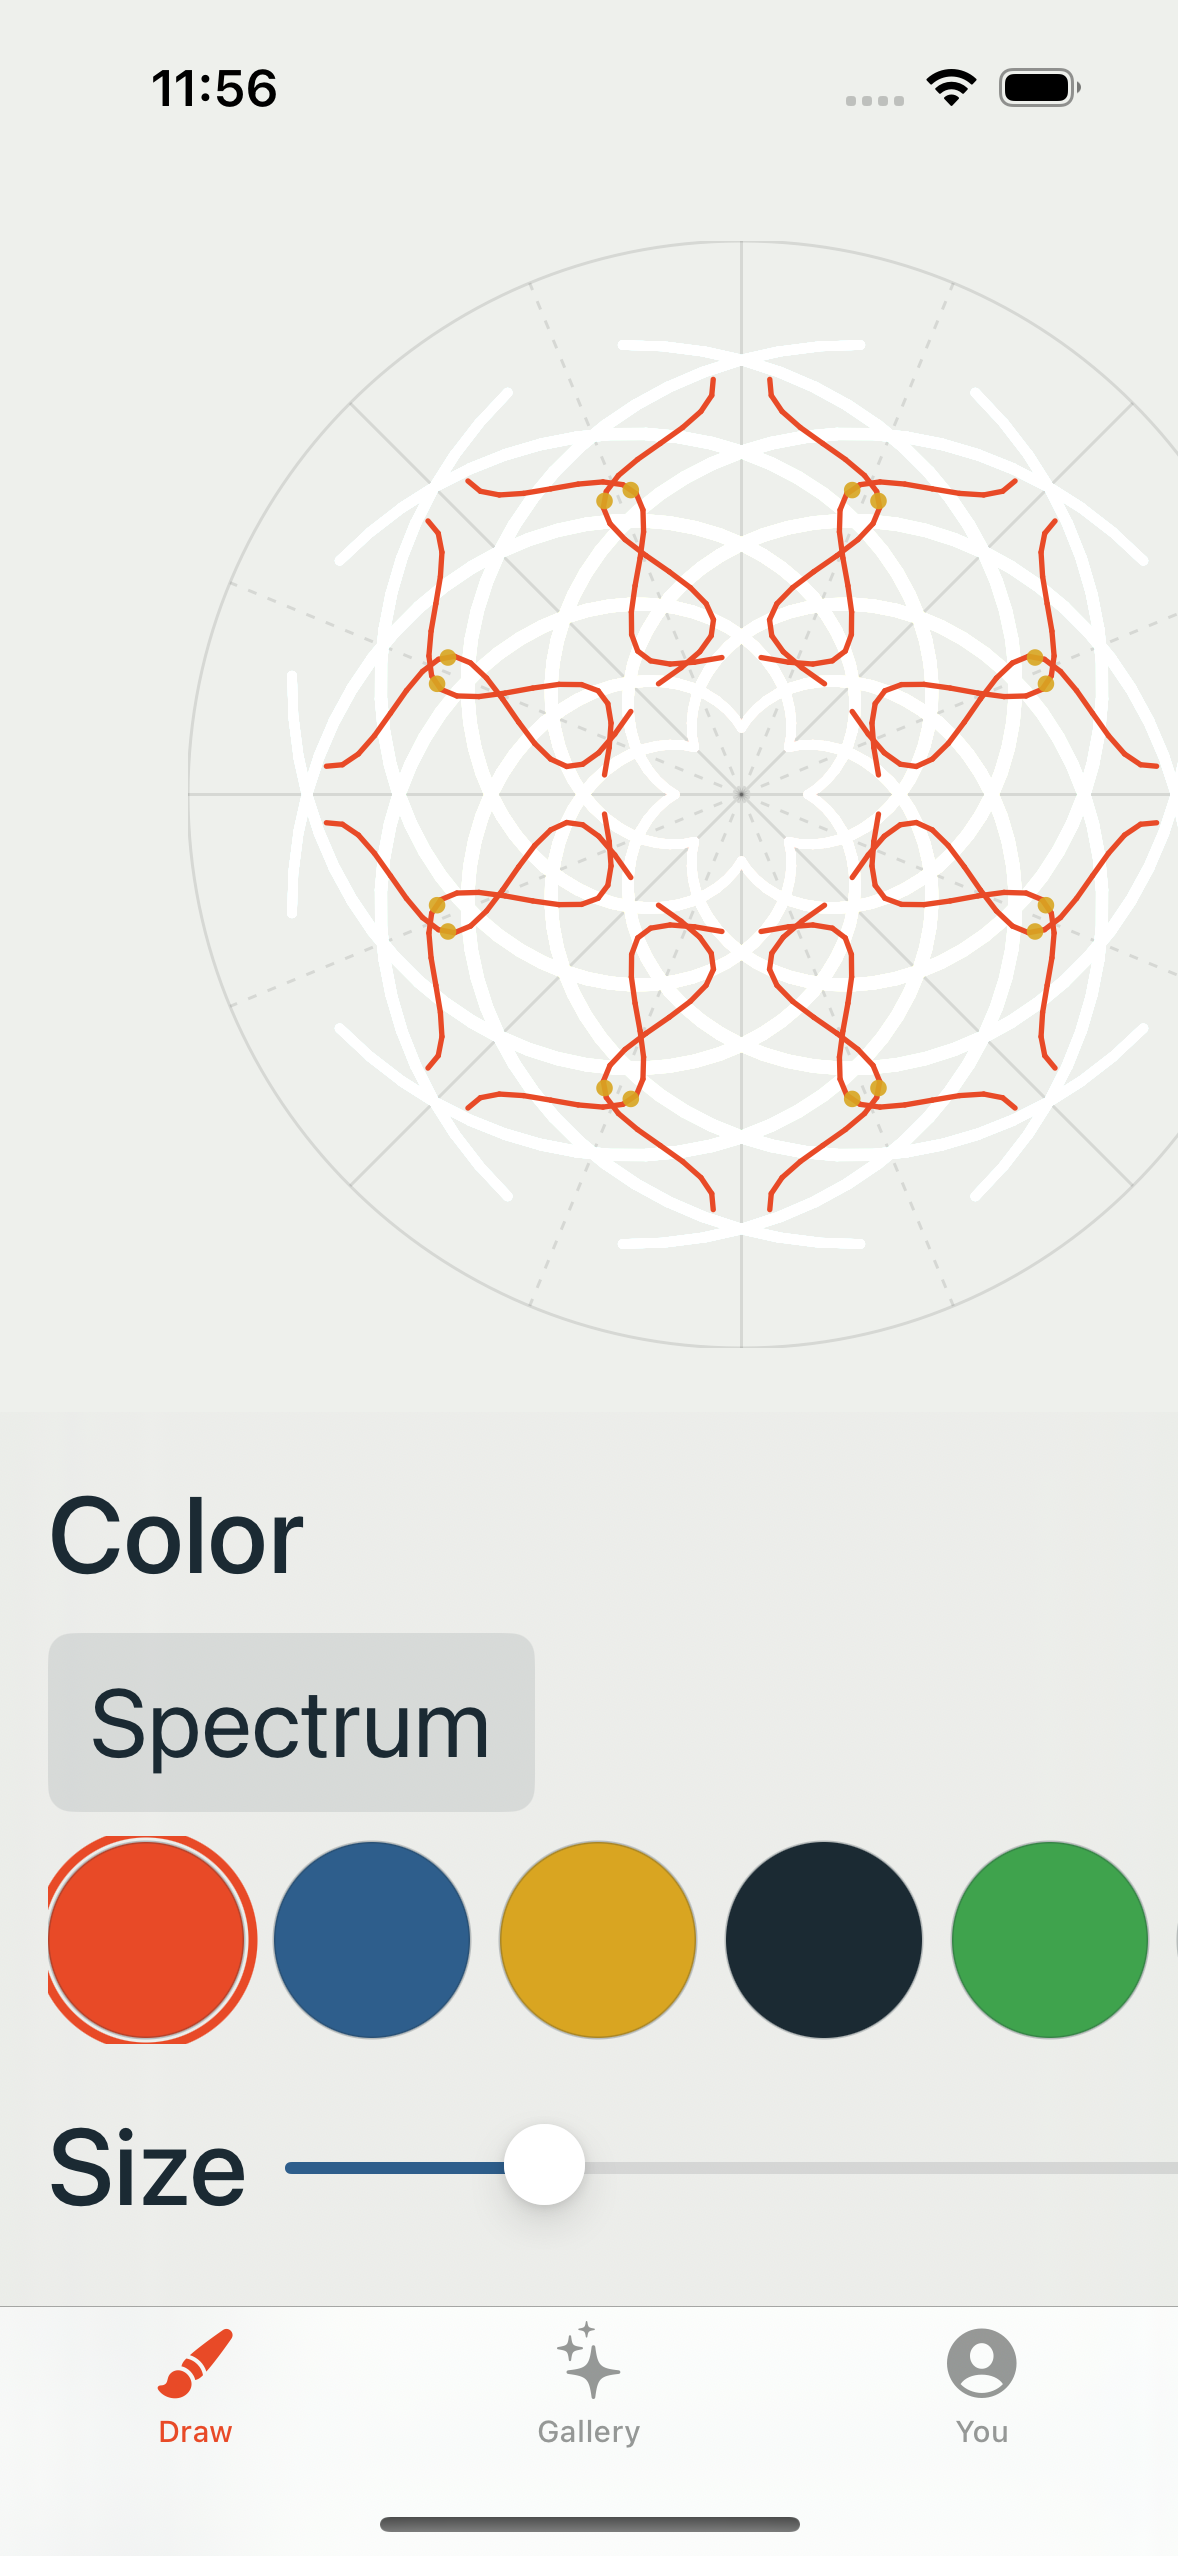
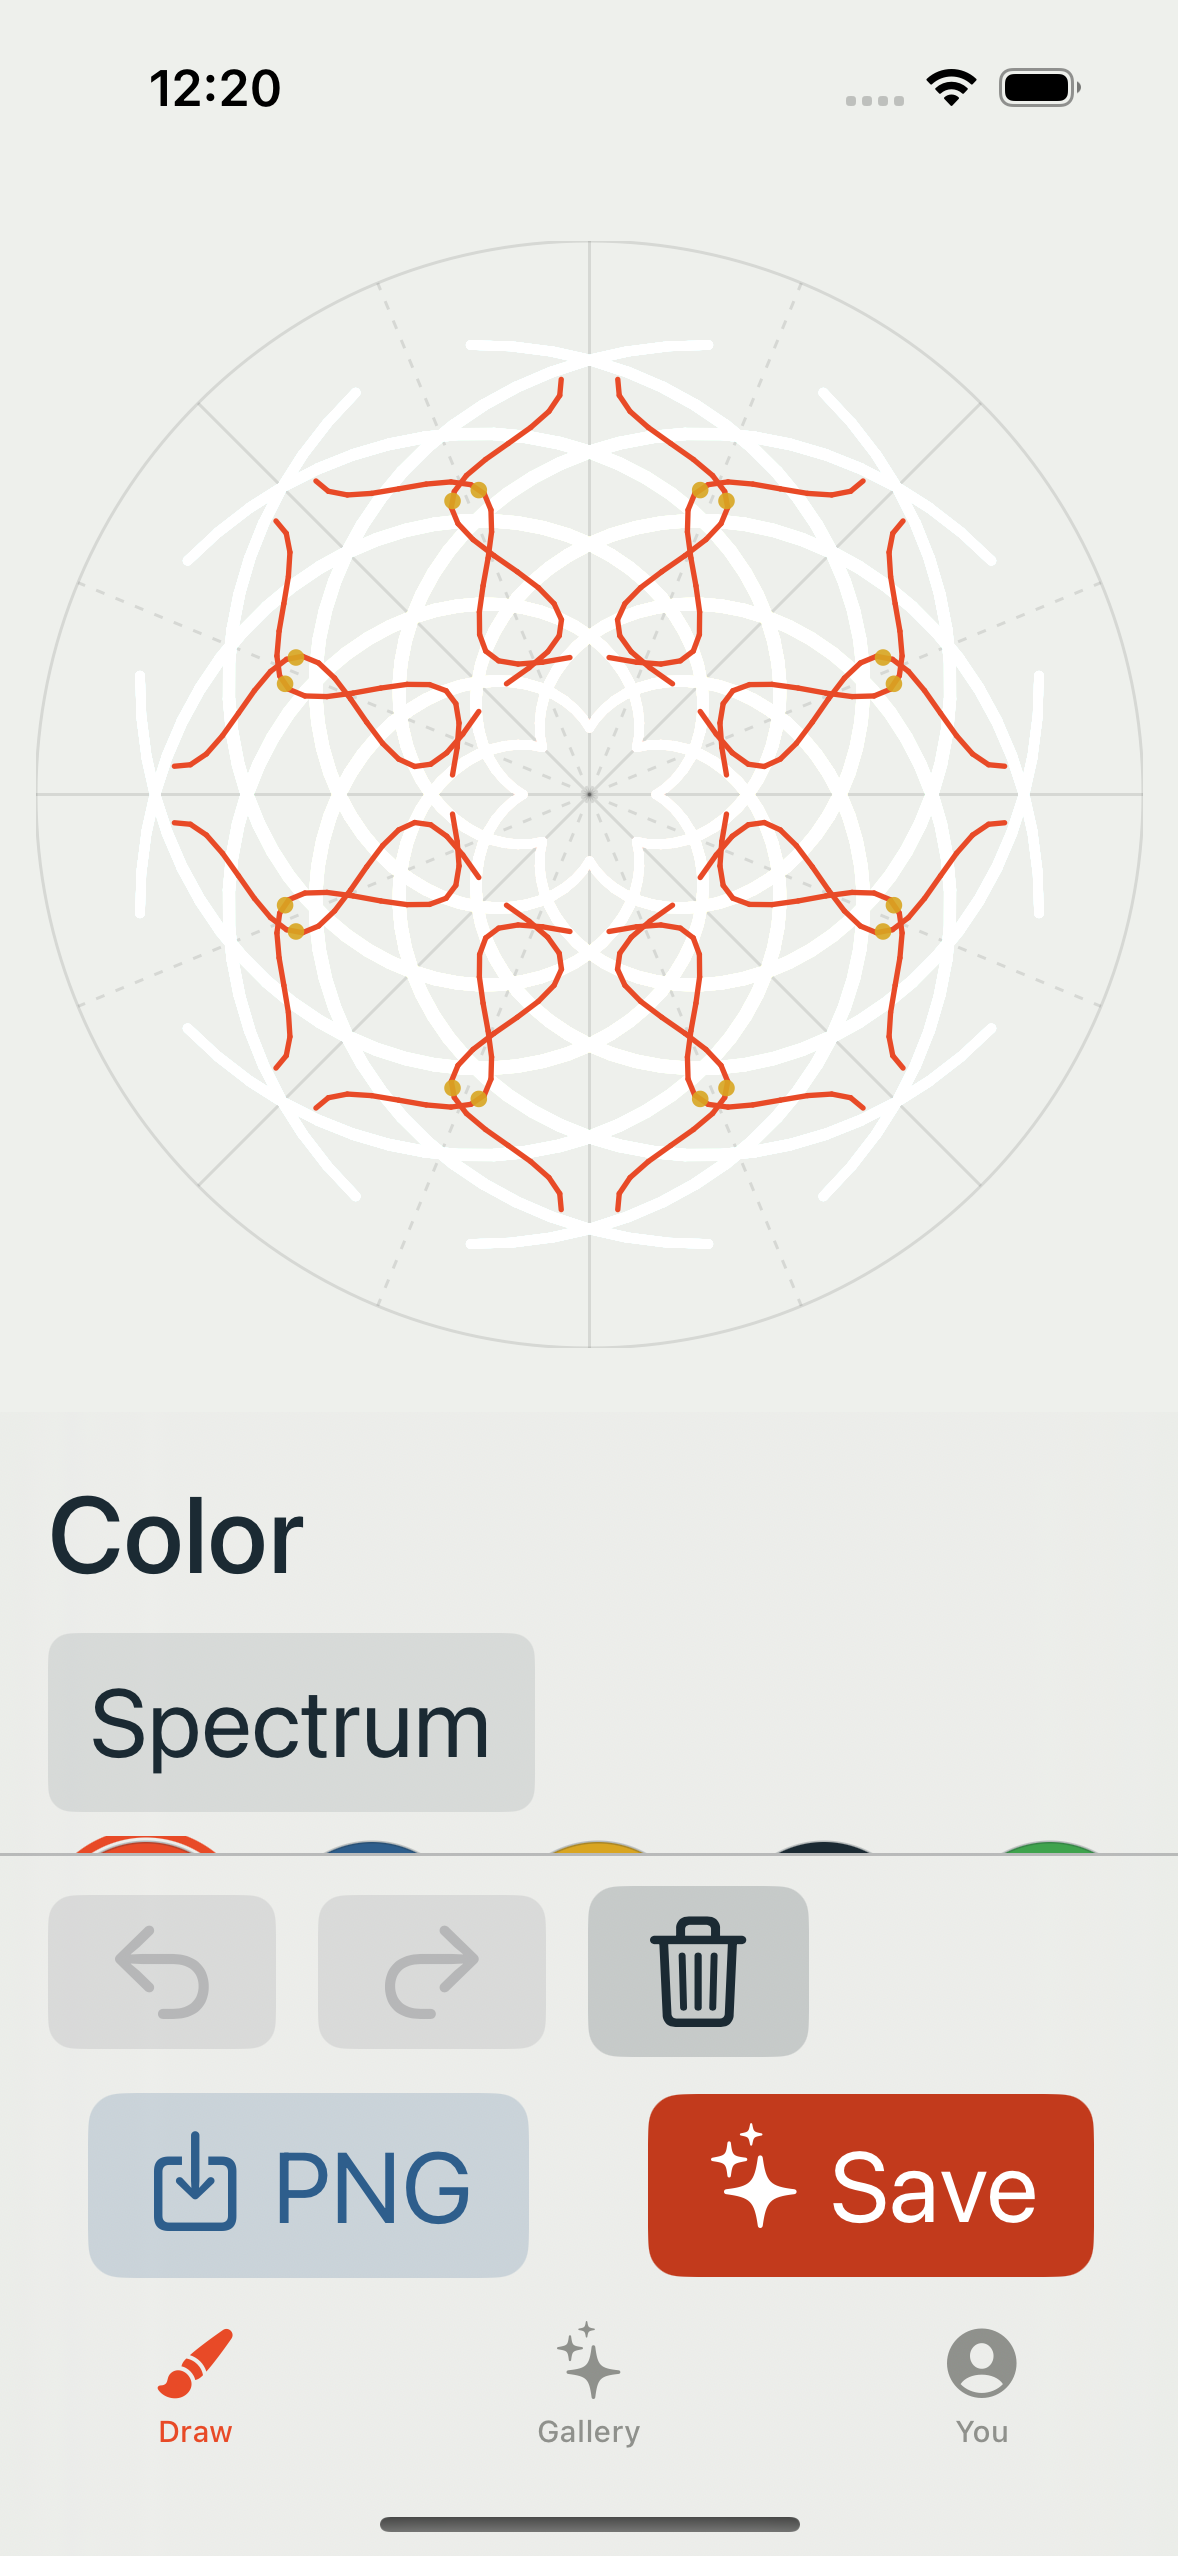
Reflow artwork/Studio action rows at accessibility text sizes
At accessibility Dynamic Type sizes only (default layout unchanged, verified
byte-identical): the artwork Like/Remix/Share row stacks vertically so the like
count stays visible, and the Studio action row becomes a pinned two-row bar below
the controls scroll (Undo/Redo/Clear; Download/Save) so the primary actions are
reachable without scrolling and the canvas isn't shrunk. Screenshots re-captured.

Claude-Session: https://claude.ai/code/session_01U1R21Uoqm5tLFpFWGHgBra

diff --git a/ios/App/Studio/StudioView.swift b/ios/App/Studio/StudioView.swift
@@ -47,23 +47,46 @@ struct StudioView: View {
 
     // MARK: Controls
 
+    @ViewBuilder
     private var controls: some View {
-        ScrollView {
-            VStack(spacing: 16) {
-                colorRow
-                sliderRow(title: "Size", accessibilityLabel: "Brush size",
-                          value: $model.size, range: 2...60) { "\(Int($0.rounded())) points" }
-                sliderRow(title: "Opacity", accessibilityLabel: "Opacity",
-                          value: $model.opacity, range: 0.1...1) { "\(Int(($0 * 100).rounded())) percent" }
-                segmentsRow
-                togglesRow
-                actionRow
+        if dynamicTypeSize.isAccessibilitySize {
+            // Accessibility sizes: the panel is height-capped, so the action row
+            // would fall below the scroll fold. Pin it as an always-visible bar
+            // below the scroll so Undo/Redo/Clear/Download/Save stay reachable
+            // without scrolling; the canvas keeps the same height.
+            VStack(spacing: 0) {
+                ScrollView {
+                    VStack(spacing: 16) { adjustmentRows }
+                        .padding(16)
+                }
+                Divider()
+                pinnedActionBar
+                    .padding(.horizontal, 16)
+                    .padding(.vertical, 10)
             }
-            .padding(16)
+            .background(controlsBackground)
+        } else {
+            ScrollView {
+                VStack(spacing: 16) {
+                    adjustmentRows
+                    actionRow
+                }
+                .padding(16)
+            }
+            .background(controlsBackground)
         }
-        // Reduce Transparency: swap the blur for a solid graph-card surface so
-        // the controls stay legible without translucency.
-        .background(controlsBackground)
+    }
+
+    /// The scrollable adjustment controls (everything except the action row).
+    @ViewBuilder
+    private var adjustmentRows: some View {
+        colorRow
+        sliderRow(title: "Size", accessibilityLabel: "Brush size",
+                  value: $model.size, range: 2...60) { "\(Int($0.rounded())) points" }
+        sliderRow(title: "Opacity", accessibilityLabel: "Opacity",
+                  value: $model.opacity, range: 0.1...1) { "\(Int(($0 * 100).rounded())) percent" }
+        segmentsRow
+        togglesRow
     }
 
     @ViewBuilder
@@ -227,34 +250,63 @@ struct StudioView: View {
         .font(.caption)
     }
 
+    // Default (one row): undo/redo/clear, spacer, download, save.
     private var actionRow: some View {
         HStack(spacing: 14) {
-            iconButton("arrow.uturn.backward", label: "Undo", enabled: model.canUndo) { model.undo() }
-            iconButton("arrow.uturn.forward", label: "Redo", enabled: model.canRedo) { model.redo() }
-            iconButton("trash", label: "Clear canvas", enabled: !model.isEmpty) { model.clear() }
+            editButtons
             Spacer()
-            Button {
-                download()
-            } label: {
-                Label("PNG", systemImage: "square.and.arrow.down")
-            }
-            .buttonStyle(.bordered)
-            .tint(Blueprint.crease)
-            .disabled(model.isEmpty)
-            .accessibilityLabel("Download PNG")
-            .accessibilityHint("Exports the drawing as an image to share or save")
-
-            Button {
-                onSave()
-            } label: {
-                Label("Save", systemImage: "sparkles")
-                    .foregroundStyle(.white) // pin white so the label isn't system-picked
-            }
-            .buttonStyle(.borderedProminent)
-            .tint(Blueprint.craneButton)
-            .disabled(model.isEmpty)
-            .accessibilityHint("Saves the piece to the gallery")
+            downloadButton
+            saveButton
         }
+    }
+
+    /// Accessibility sizes: two rows so all five controls fit (a single row
+    /// overflows and pushes Save off-screen). Undo/redo/clear on top, then
+    /// Download + Save full-width. Used pinned below the scroll in `controls`.
+    private var pinnedActionBar: some View {
+        VStack(spacing: 12) {
+            HStack(spacing: 14) { editButtons; Spacer() }
+            HStack(spacing: 14) {
+                downloadButton.frame(maxWidth: .infinity)
+                saveButton.frame(maxWidth: .infinity)
+            }
+            // Keep the two full-width labels on one line, scaling if needed.
+            .lineLimit(1)
+            .minimumScaleFactor(0.7)
+        }
+    }
+
+    @ViewBuilder
+    private var editButtons: some View {
+        iconButton("arrow.uturn.backward", label: "Undo", enabled: model.canUndo) { model.undo() }
+        iconButton("arrow.uturn.forward", label: "Redo", enabled: model.canRedo) { model.redo() }
+        iconButton("trash", label: "Clear canvas", enabled: !model.isEmpty) { model.clear() }
+    }
+
+    private var downloadButton: some View {
+        Button {
+            download()
+        } label: {
+            Label("PNG", systemImage: "square.and.arrow.down")
+        }
+        .buttonStyle(.bordered)
+        .tint(Blueprint.crease)
+        .disabled(model.isEmpty)
+        .accessibilityLabel("Download PNG")
+        .accessibilityHint("Exports the drawing as an image to share or save")
+    }
+
+    private var saveButton: some View {
+        Button {
+            onSave()
+        } label: {
+            Label("Save", systemImage: "sparkles")
+                .foregroundStyle(.white) // pin white so the label isn't system-picked
+        }
+        .buttonStyle(.borderedProminent)
+        .tint(Blueprint.craneButton)
+        .disabled(model.isEmpty)
+        .accessibilityHint("Saves the piece to the gallery")
     }
 
     private func iconButton(_ system: String, label: String, enabled: Bool, action: @escaping () -> Void) -> some View {

diff --git a/ios/App/Content/ArtworkView.swift b/ios/App/Content/ArtworkView.swift
@@ -9,6 +9,7 @@ struct ArtworkView: View {
     @EnvironmentObject var studio: StudioModel
     @EnvironmentObject var router: AppRouter
     @Environment(\.dismiss) private var dismiss
+    @Environment(\.dynamicTypeSize) private var dynamicTypeSize
 
     @State private var detail: ArtworkDetail?
     @State private var likes = 0
@@ -61,39 +62,60 @@ struct ArtworkView: View {
         .padding()
     }
 
+    @ViewBuilder
     private func actionRow(_ d: ArtworkDetail) -> some View {
-        HStack(spacing: 12) {
-            Button { Task { await like() } } label: {
-                Label("\(likes)", systemImage: "heart")
+        if dynamicTypeSize.isAccessibilitySize {
+            // Accessibility sizes: stack full-width so the like count, Remix, and
+            // Share all stay fully visible (the horizontal row squeezes them).
+            VStack(spacing: 12) {
+                likeButton.frame(maxWidth: .infinity)
+                remixButton.frame(maxWidth: .infinity)
+                shareButton(d).frame(maxWidth: .infinity)
             }
-            .buttonStyle(.bordered)
-            .tint(Blueprint.craneText) // crane-as-text token: 4.5:1+ label in both themes
-            .disabled(busy)
-            .accessibilityLabel("Like")
-            .accessibilityValue(likes == 1 ? "1 like" : "\(likes) likes")
-
-            Button { Task { await remix() } } label: {
-                Label("Remix", systemImage: "arrow.triangle.branch")
-                    .foregroundStyle(.white) // pin white so the label isn't system-picked
-                    .lineLimit(1)
-                    .minimumScaleFactor(0.6) // scale down at large text instead of wrapping mid-word
+        } else {
+            HStack(spacing: 12) {
+                likeButton
+                remixButton
+                shareButton(d)
+                Spacer()
             }
-            .buttonStyle(.borderedProminent)
-            .tint(Blueprint.creaseButton)
-            // Claim label width before the row's Spacer absorbs it, so the label
-            // reads "Remix" (not "Re…") at large text instead of compressing.
-            .layoutPriority(1)
-            .disabled(busy)
-            .accessibilityHint("Loads this piece into the studio to edit")
-
-            Button { Task { await share(d) } } label: {
-                Image(systemName: "square.and.arrow.up")
-            }
-            .buttonStyle(.bordered)
-            .tint(Blueprint.graphite)
-            .accessibilityLabel("Share")
-            Spacer()
         }
+    }
+
+    private var likeButton: some View {
+        Button { Task { await like() } } label: {
+            Label("\(likes)", systemImage: "heart")
+        }
+        .buttonStyle(.bordered)
+        .tint(Blueprint.craneText) // crane-as-text token: 4.5:1+ label in both themes
+        .disabled(busy)
+        .accessibilityLabel("Like")
+        .accessibilityValue(likes == 1 ? "1 like" : "\(likes) likes")
+    }
+
+    private var remixButton: some View {
+        Button { Task { await remix() } } label: {
+            Label("Remix", systemImage: "arrow.triangle.branch")
+                .foregroundStyle(.white) // pin white so the label isn't system-picked
+                .lineLimit(1)
+                .minimumScaleFactor(0.6) // scale down at large text instead of wrapping mid-word
+        }
+        .buttonStyle(.borderedProminent)
+        .tint(Blueprint.creaseButton)
+        // Claim label width before the row's Spacer absorbs it, so the label
+        // reads "Remix" (not "Re…") at large text instead of compressing.
+        .layoutPriority(1)
+        .disabled(busy)
+        .accessibilityHint("Loads this piece into the studio to edit")
+    }
+
+    private func shareButton(_ d: ArtworkDetail) -> some View {
+        Button { Task { await share(d) } } label: {
+            Image(systemName: "square.and.arrow.up")
+        }
+        .buttonStyle(.bordered)
+        .tint(Blueprint.graphite)
+        .accessibilityLabel("Share")
     }
 
     @ViewBuilder

diff --git a/ios/UITests/AccessibilityUITests.swift b/ios/UITests/AccessibilityUITests.swift
@@ -144,6 +144,21 @@ final class AccessibilityUITests: XCTestCase {
     /// "frendalist" (shows "by Anmol Saxena" — the owner's own name, fine to
     /// display) rather than an arbitrary other-user piece. Same .accessibility3
     /// launch arg. Used to replace 04-artwork-detail with a privacy-safe shot.
+    /// Focused .accessibility3 capture of the Studio (default + a swatch selected)
+    /// — used to refresh 01/02 after the controls-panel reflow without disturbing
+    /// the network-backed screens.
+    func testAccessibility3StudioReflow() {
+        let app = XCUIApplication()
+        app.launchArguments += ["-UIPreferredContentSizeCategoryName",
+                                "UICTContentSizeCategoryAccessibilityXL"]
+        app.launchEnvironment["KALEIDO_DEMO"] = "1"
+        app.launch()
+        XCTAssertTrue(app.otherElements["Drawing canvas"].waitForExistence(timeout: 15))
+        snap(app, "01-studio-default")
+        if app.buttons["teal"].exists { app.buttons["teal"].tap() }
+        snap(app, "02-studio-active")
+    }
+
     /// Focused .accessibility3 capture of the About screen (text-heavy), separate
     /// so a flaky navigation in the main walk can't drop it.
     func testAccessibility3About() {
